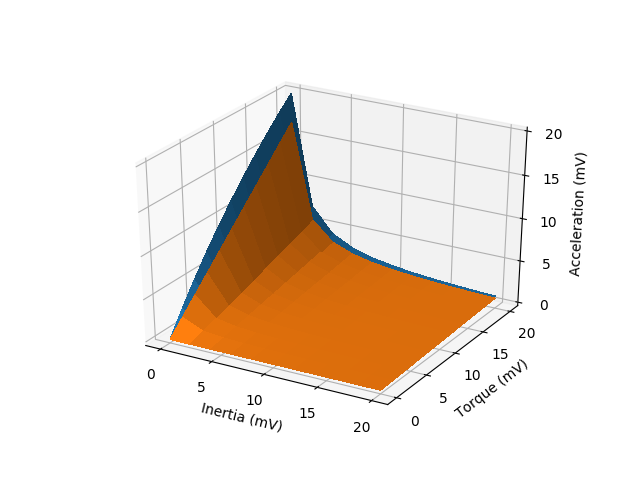
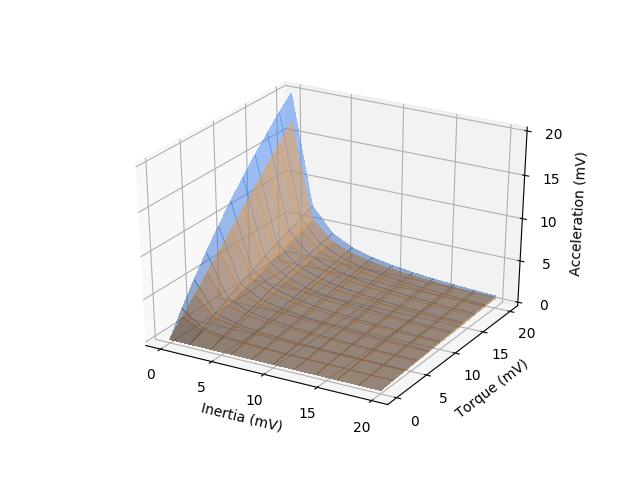
Save work from previous

Changed region(s): [[0.25, 0.1875, 0.7812, 0.8125]]

diff --git a/writeup/chapters/results.tex b/writeup/chapters/results.tex
@@ -107,7 +107,7 @@ resulted in near-perfect tracking; however, the weight updates themselves were c
 
 \bbs{Neuron Controller}
 
-Animatlab does not offer a good model of pneumatic muscles for use in closed loop testing. In place of this testing, the Python simulation was used to simulate the behavior of the pneumatic actuators and the neuron model was tuned to try and match the output of the Python controller from the small component subnetworks up to the overall controller behavior. The standard for a good match was less than 10 percent error across the simulated range of neuron inputs. For neurons with an active range between -60 mV and -40 mV, the determination for a good network is an average error of less than 2 mV. 
+Animatlab does not offer a good model of pneumatic muscles for use in closed loop testing. In place of this testing, the Python simulation was used to simulate the behavior of the pneumatic actuators and the neuron model was tuned to try and match the output of the Python controller from the small component subnetworks up to the overall controller behavior. The standard for a good match was less than 10 percent mean error across the simulated range of neuron inputs. For neurons with an active range between -60 mV and -40 mV, the determination for a good network is an average error of less than 2 mV.
 
 \bbss{Test Results}
 

diff --git a/writeup/chapters/conclusion.tex b/writeup/chapters/conclusion.tex
@@ -26,7 +26,7 @@ discussed in the design when the parameters are too conservative.
 The implementation of the controller in a synthetic nervous system led to the
 design of unique nervous system functional subnetworks. Most networks
 were found to be consistent with their standard controller output.
-Including a synthetic nervous system based controller enhances the flexibility and adaptability of the controller when there is less precision required and a insights gained from a deeper biological understanding of how animal nervous systems control joints are required.
+Including a synthetic nervous system based controller enhances the flexibility and adaptability of the controller when there is less precision required and insights gained from a deeper biological understanding of how animal nervous systems control joints are required.
 
 \bbs{Future Work}
 

diff --git a/multiviz/torque_to_acceleration2.py b/multiviz/torque_to_acceleration2.py
@@ -546,8 +546,11 @@ if __name__ == '__main__':
     Z = np.clip(Z, np.min([0, np.min(Z_ref)]), np.max([20, np.max(Z_ref)]))
     Z_ref = np.clip(Z_ref, 0, None)
 
-    surf = ax.plot_surface(X, Y, Z, linewidth=0, antialiased=False, label='Neuron')
-    surf2 = ax.plot_surface(X, Y, Z_ref, linewidth=0, antialiased=False)
+    # surf = ax.plot_surface(X, Y, Z, linewidth=0, antialiased=False, label='Neuron')
+    # surf2 = ax.plot_surface(X, Y, Z_ref, linewidth=0, antialiased=False)
+    surf = ax.plot_surface(X, Y, Z, color=(66/255.0, 134/255.0, 244/255.0, 0.5), linewidth=1, antialiased=False, label='Neuron', zorder=2)
+    surf2 = ax.plot_surface(X, Y, Z_ref, color=(244/255.0, 158/255.0, 66/255.0, 0.5), linewidth=1, antialiased=False, zorder=1)
+
     ax.set_xlabel('Damping (mV)')
     ax.set_ylabel('Torque (mV)')
     ax.set_zlabel('Acceleration (mV)')

diff --git a/multiviz/torque_to_pressure.py b/multiviz/torque_to_pressure.py
@@ -543,8 +543,12 @@ if __name__ == '__main__':
 
     Z = np.clip(Z, np.min([0, np.min(Z_ref)]), np.max([20, np.max(Z_ref)]))
 
-    surf = ax.plot_surface(X, Y, Z, linewidth=0, antialiased=False, label='Neuron')
-    surf2 = ax.plot_surface(X, Y, Z_ref, linewidth=0, antialiased=False)
+    # surf = ax.plot_surface(X, Y, Z, linewidth=0, antialiased=False, label='Neuron')
+    # surf2 = ax.plot_surface(X, Y, Z_ref, linewidth=0, antialiased=False)
+
+    surf = ax.plot_surface(X, Y, Z, color=(66/255.0, 134/255.0, 244/255.0, 0.5), linewidth=1, antialiased=False, label='Neuron', zorder=2)
+    surf2 = ax.plot_surface(X, Y, Z_ref, color=(244/255.0, 158/255.0, 66/255.0, 0.5), linewidth=1, antialiased=False, zorder=1)
+
     ax.set_xlabel('Position' + '(mV)')
     ax.set_ylabel('Torque' + ' (mV)')
     ax.set_zlabel('Pressure' + '(mV)')

diff --git a/multiviz/torque_to_acceleration1.py b/multiviz/torque_to_acceleration1.py
@@ -544,8 +544,12 @@ if __name__ == '__main__':
 
     Z = np.clip(Z, np.min([0, np.min(Z_ref)]), np.max([20, np.max(Z_ref)]))
 
-    surf = ax.plot_surface(X, Y, Z, linewidth=0, antialiased=False, label='Neuron')
-    surf2 = ax.plot_surface(X, Y, Z_ref, linewidth=0, antialiased=False)
+    # surf = ax.plot_surface(X, Y, Z, linewidth=0, antialiased=False, label='Neuron')
+    # surf2 = ax.plot_surface(X, Y, Z_ref, linewidth=0, antialiased=False)
+
+    surf = ax.plot_surface(X, Y, Z, color=(66/255.0, 134/255.0, 244/255.0, 0.5), linewidth=1, antialiased=False, label='Neuron', zorder=2)
+    surf2 = ax.plot_surface(X, Y, Z_ref, color=(244/255.0, 158/255.0, 66/255.0, 0.5), linewidth=1, antialiased=False, zorder=1)
+
     ax.set_xlabel('Inertia (mV)')
     ax.set_ylabel('Torque (mV)')
     ax.set_zlabel('Acceleration (mV)')

diff --git a/multiviz/torque_optimization2.py b/multiviz/torque_optimization2.py
@@ -619,8 +619,12 @@ if __name__ == '__main__':
     Z = np.clip(-Z, 0, 20)
     Z_ref = np.clip(Z_ref, 0, 20)
 
-    surf = ax.plot_surface(X, Y, Z, linewidth=0, antialiased=False, label='Neuron')
-    surf2 = ax.plot_surface(X, Y, Z_ref, linewidth=0, antialiased=False)
+    # surf = ax.plot_surface(X, Y, Z, linewidth=0, antialiased=False, label='Neuron')
+    # surf2 = ax.plot_surface(X, Y, Z_ref, linewidth=0, antialiased=False)
+
+    surf = ax.plot_surface(X, Y, Z, color=(66/255.0, 134/255.0, 244/255.0, 0.5), linewidth=1, antialiased=False, label='Neuron', zorder=2)
+    surf2 = ax.plot_surface(X, Y, Z_ref, color=(244/255.0, 158/255.0, 66/255.0, 0.5), linewidth=1, antialiased=False, zorder=1)
+
     ax.set_xlabel('Position (mV)')
     ax.set_ylabel('Desired Position (mV)')
     ax.set_zlabel('Torque (mV)')

diff --git a/multiviz/torque_optimization1.py b/multiviz/torque_optimization1.py
@@ -619,8 +619,11 @@ if __name__ == '__main__':
     Z = np.clip(Z, 0, 20)
     Z_ref = np.clip(Z_ref, 0, 20)
 
-    surf = ax.plot_surface(X, Y, Z, linewidth=0, antialiased=False, label='Neuron')
-    surf2 = ax.plot_surface(X, Y, Z_ref, linewidth=0, antialiased=False)
+    # surf = ax.plot_surface(X, Y, Z, linewidth=0, antialiased=False, label='Neuron')
+    # surf2 = ax.plot_surface(X, Y, Z_ref, linewidth=0, antialiased=False)
+    surf = ax.plot_surface(X, Y, Z, color=(66/255.0, 134/255.0, 244/255.0, 0.5), linewidth=1, antialiased=False, label='Neuron', zorder=2)
+    surf2 = ax.plot_surface(X, Y, Z_ref, color=(244/255.0, 158/255.0, 66/255.0, 0.5), linewidth=1, antialiased=False, zorder=1)
+
     ax.set_xlabel('Position (mV)')
     ax.set_ylabel('Desired Position (mV)')
     ax.set_zlabel('Torque (mV)')

diff --git a/multiviz/systemN.py b/multiviz/systemN.py
@@ -714,8 +714,11 @@ if __name__ == '__main__':
     Z = np.clip(Z, 0, 20)
     Z_ref = np.clip(Z_ref, 0, 20)
 
-    surf = ax.plot_surface(X, Y, Z, linewidth=0, antialiased=False, label='Neuron')
-    surf2 = ax.plot_surface(X, Y, Z_ref, linewidth=0, antialiased=False)
+    # surf = ax.plot_surface(X, Y, Z, linewidth=0, antialiased=False, label='Neuron')
+    # surf2 = ax.plot_surface(X, Y, Z_ref, linewidth=0, antialiased=False)
+    surf = ax.plot_surface(X, Y, Z, color=(66/255.0, 134/255.0, 244/255.0, 0.5), linewidth=1, antialiased=False, label='Neuron', zorder=2)
+    surf2 = ax.plot_surface(X, Y, Z_ref, color=(244/255.0, 158/255.0, 66/255.0, 0.5), linewidth=1, antialiased=False, zorder=1)
+
     ax.set_xlabel('+Vel (mV)')
     ax.set_ylabel('Err (mV)')
     ax.set_zlabel('N Update (mV)')

diff --git a/multiviz/pressure_to_torque.py b/multiviz/pressure_to_torque.py
@@ -455,8 +455,8 @@ if __name__ == '__main__':
     Z_ref = data_ref[:,-1]
     Z_ref = Z_ref.reshape((input_length0, input_length1))
 
-    surf = ax.plot_surface(X, Y, Z, linewidth=0, antialiased=False, label='Neuron')
-    surf2 = ax.plot_surface(X, Y, Z_ref, linewidth=0, antialiased=False)
+    surf = ax.plot_surface(X, Y, Z, color=(66/255.0, 134/255.0, 244/255.0, 0.5), linewidth=1, antialiased=False, label='Neuron', zorder=2)
+    surf2 = ax.plot_surface(X, Y, Z_ref, color=(244/255.0, 158/255.0, 66/255.0, 0.5), linewidth=1, antialiased=False, zorder=1)
     ax.set_xlabel('Theta (mV)')
     ax.set_ylabel('Ext. Pres. (mV)')
     ax.set_zlabel('Ext. Torque (mV)')

diff --git a/multiviz/systemC.py b/multiviz/systemC.py
@@ -716,8 +716,8 @@ if __name__ == '__main__':
     Z = np.clip(Z, 0, 20)
     Z_ref = np.clip(Z_ref, 0, 20)
 
-    surf = ax.plot_surface(X, Y, Z, linewidth=0, antialiased=False, label='Neuron', zorder=2)
-    surf2 = ax.plot_surface(X, Y, Z_ref, linewidth=0, antialiased=False, zorder=1)
+    surf = ax.plot_surface(X, Y, Z, color=(66/255.0, 134/255.0, 244/255.0, 0.5), linewidth=1, antialiased=False, label='Neuron', zorder=2)
+    surf2 = ax.plot_surface(X, Y, Z_ref, color=(244/255.0, 158/255.0, 66/255.0, 0.5), linewidth=1, antialiased=False, zorder=1)
     ax.set_xlabel('Vel (mV)')
     ax.set_ylabel('Err (mV)')
     ax.set_zlabel('Update (mV)')
